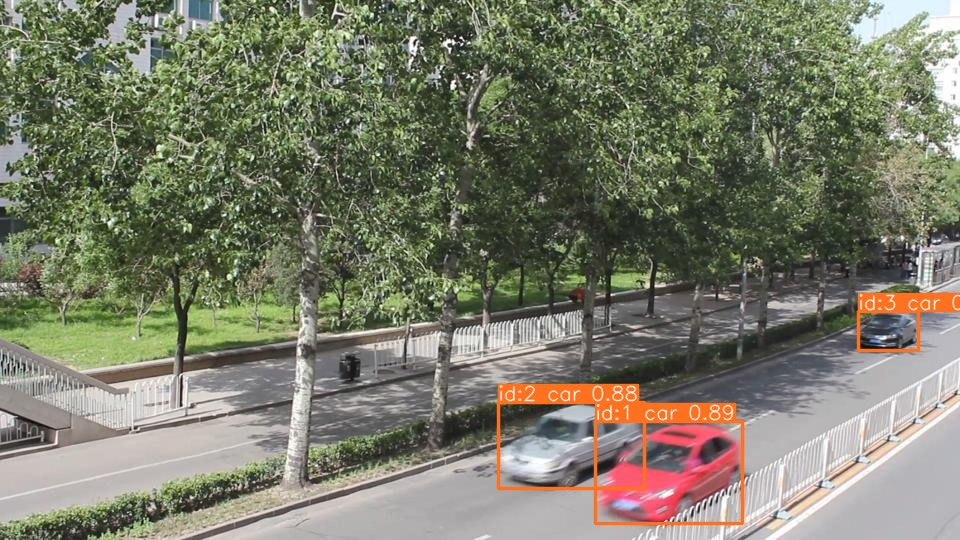
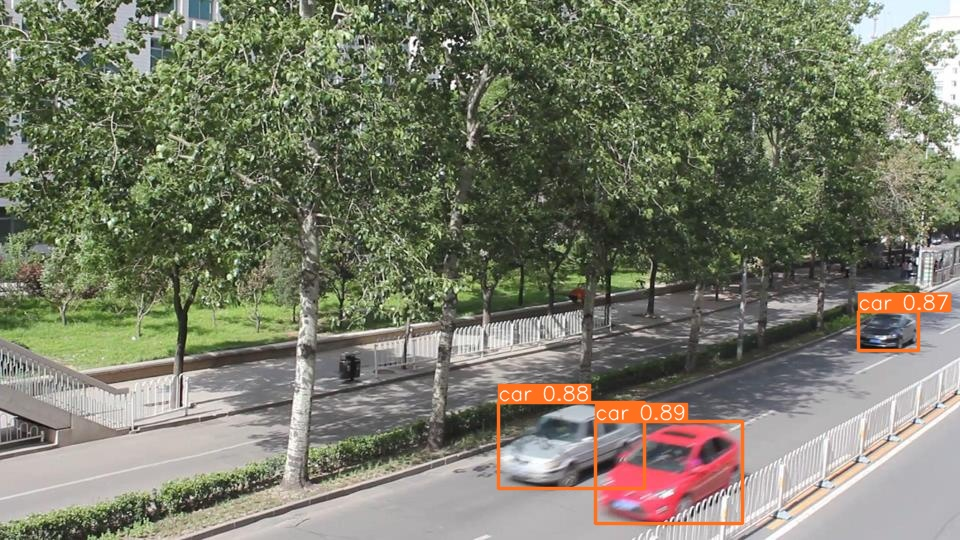
gerando histogramas de somente a detecção de carros (sem o tracker)

Changed region(s): [[0.5, 0.7111, 0.7812, 0.8], [0.9062, 0.5333, 1.0, 0.5926]]

diff --git a/gerando_histogramas_rastreados.py b/gerando_histogramas_rastreados.py
@@ -5,12 +5,13 @@ import cv2  # Importa a biblioteca OpenCV para manipulação de imagens
 # Carregar o modelo YOLO
 model = YOLO('yolov8m.pt')  # Carrega o modelo YOLOv8m
 
-# Realizar a detecção na imagem de teste
-results = model(
+# Realizar o rastreamento na imagem de teste
+results = model.track(
     source='C:/Users/rodri/Desktop/TCC/imagem_teste.jpg',  # Define a imagem de entrada
     show=True,  # Exibe a imagem com as detecções
     save=True,  # Salva a imagem com as detecções
     save_dir='C:/Users/rodri/Desktop/TCC/',  # Define o diretório onde a imagem será salva
+    tracker='bytetrack.yaml',  # Define o algoritmo de rastreamento a ser usado
     classes=(2, 3, 5, 7)  # Define as classes a serem detectadas
 )
 
